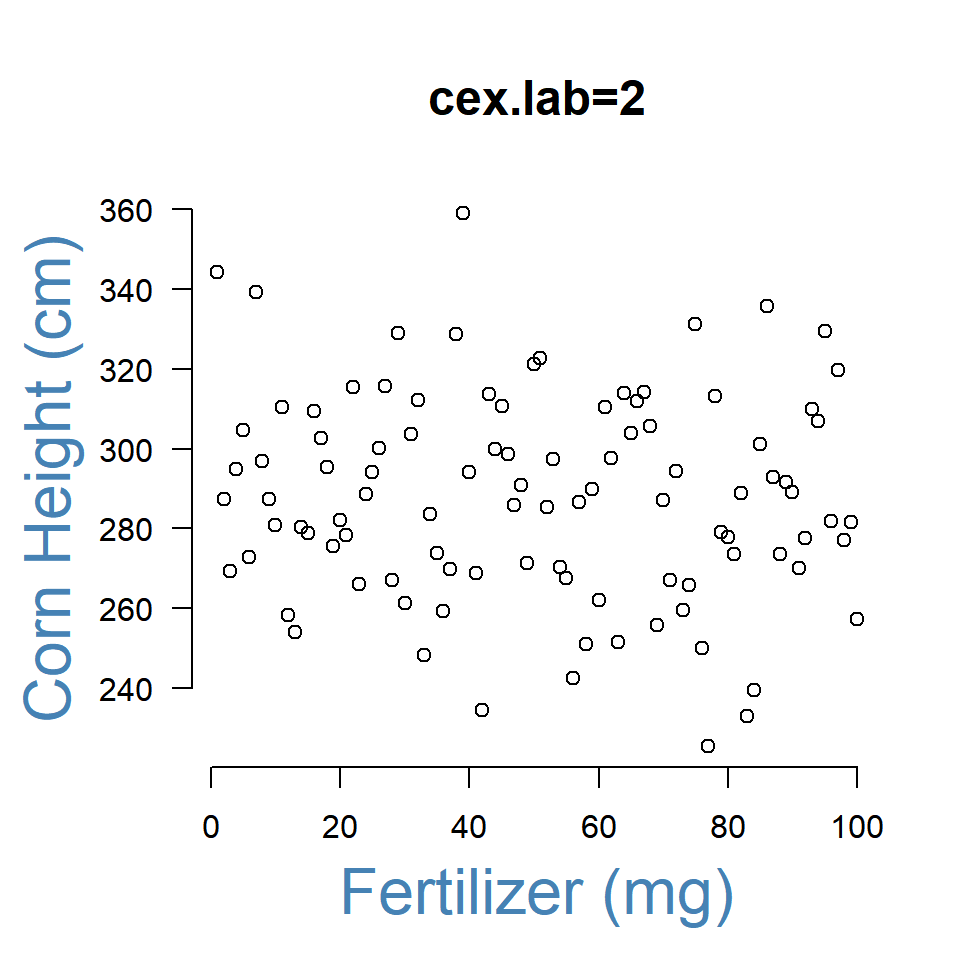
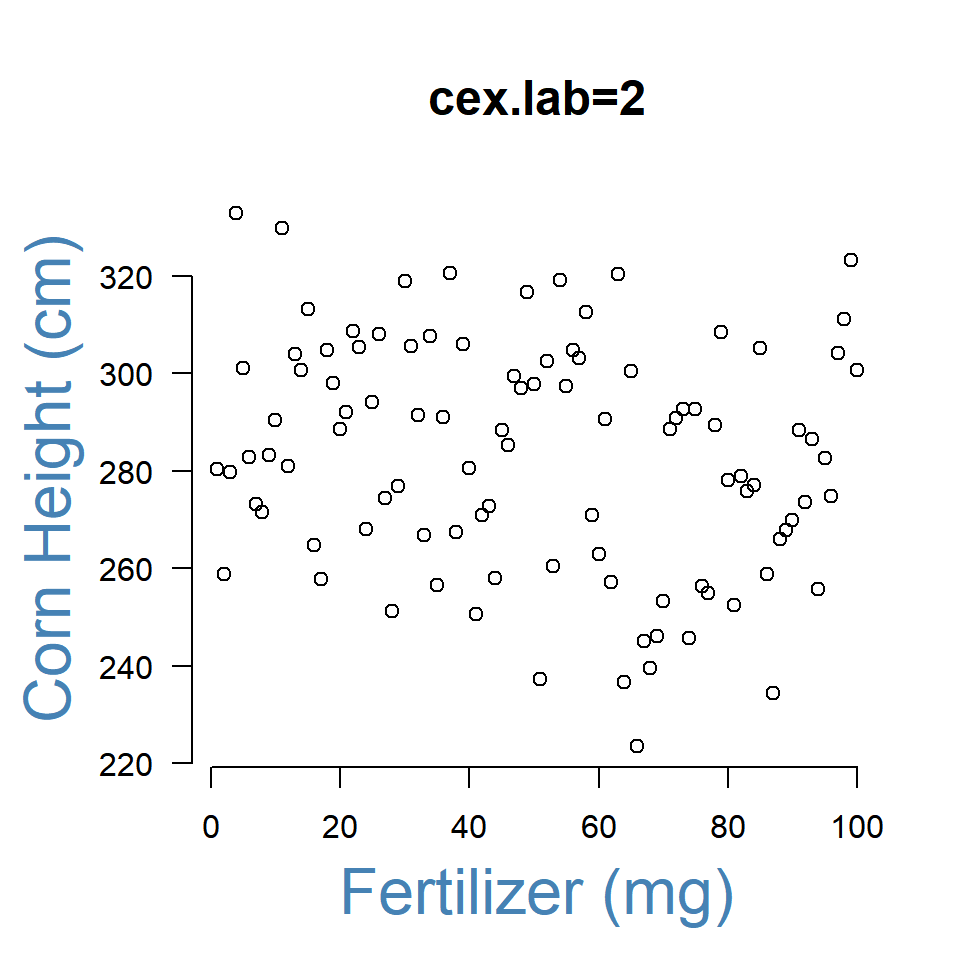
p-061

diff --git a/p-061-plot-basics.html b/p-061-plot-basics.html
@@ -291,64 +291,64 @@ $(document).ready(function () {
 </thead>
 <tbody>
 <tr class="odd">
-<td align="center">36</td>
-<td align="center">344</td>
-<td align="center">0.24</td>
-<td align="center">A</td>
+<td align="center">15</td>
+<td align="center">280</td>
+<td align="center">1.08</td>
+<td align="center">B</td>
 </tr>
 <tr class="even">
-<td align="center">73</td>
-<td align="center">287</td>
-<td align="center">0.12</td>
+<td align="center">87</td>
+<td align="center">259</td>
+<td align="center">0.62</td>
 <td align="center">B</td>
 </tr>
 <tr class="odd">
-<td align="center">95</td>
-<td align="center">269</td>
-<td align="center">0.76</td>
+<td align="center">65</td>
+<td align="center">280</td>
+<td align="center">0.45</td>
 <td align="center">B</td>
 </tr>
 <tr class="even">
-<td align="center">51</td>
-<td align="center">295</td>
-<td align="center">0.58</td>
+<td align="center">43</td>
+<td align="center">333</td>
+<td align="center">0.15</td>
 <td align="center">C</td>
 </tr>
 <tr class="odd">
-<td align="center">33</td>
-<td align="center">305</td>
-<td align="center">0.55</td>
+<td align="center">50</td>
+<td align="center">301</td>
+<td align="center">0.32</td>
 <td align="center">A</td>
 </tr>
 <tr class="even">
-<td align="center">79</td>
-<td align="center">273</td>
-<td align="center">0.69</td>
-<td align="center">A</td>
-</tr>
-<tr class="odd">
-<td align="center">39</td>
-<td align="center">339</td>
-<td align="center">0.05</td>
-<td align="center">C</td>
-</tr>
-<tr class="even">
-<td align="center">72</td>
-<td align="center">297</td>
-<td align="center">0.7</td>
-<td align="center">B</td>
-</tr>
-<tr class="odd">
-<td align="center">48</td>
-<td align="center">287</td>
-<td align="center">0.42</td>
-<td align="center">B</td>
-</tr>
-<tr class="even">
-<td align="center">59</td>
-<td align="center">281</td>
+<td align="center">46</td>
+<td align="center">283</td>
 <td align="center">0.53</td>
 <td align="center">C</td>
+</tr>
+<tr class="odd">
+<td align="center">10</td>
+<td align="center">273</td>
+<td align="center">0.44</td>
+<td align="center">A</td>
+</tr>
+<tr class="even">
+<td align="center">2</td>
+<td align="center">272</td>
+<td align="center">0.71</td>
+<td align="center">A</td>
+</tr>
+<tr class="odd">
+<td align="center">13</td>
+<td align="center">283</td>
+<td align="center">0.81</td>
+<td align="center">C</td>
+</tr>
+<tr class="even">
+<td align="center">19</td>
+<td align="center">290</td>
+<td align="center">0.34</td>
+<td align="center">A</td>
 </tr>
 </tbody>
 </table>

diff --git a/p-062-customized-graphics.html b/p-062-customized-graphics.html
@@ -271,16 +271,16 @@ Mark McGuire before and after alleged steroid use.
 <div id="core-graphic-functions" class="section level2">
 <h2><span class="header-section-number">1.2</span> Core Graphic Functions</h2>
 <pre class="r"><code>points(
-  x=x, y=y,                    # plots points at the x,y positions 
-  pch=19,                      # the type of point to plot
-  cex=2,                           # aspect ratio of point size
-  col=&quot;red&quot;,                     # color of points
-  bg=&quot;green&quot;                     # fill color for open symbols
+  x=x, y=y,              # plots points at the x,y positions 
+  pch=19,                # the type of point to plot
+  cex=2,                 # aspect ratio of point size
+  col=&quot;red&quot;,             # color of points
+  bg=&quot;green&quot;             # fill color for open symbols
  )
 
 
 text(
-  x=x, y=y,                    # draws a line by connecting points 
+  x=x, y=y,              # draws a line by connecting points 
   labels=some.text,          # vector of labels to plot on the graph
   pos=3,                           # position: 1=below, 2=left, 3=above, 4=right
   cex=2,                           # aspect ratio of text size
@@ -510,7 +510,7 @@ points( height.jitter[ these.iowa ],
 
 points( 63, 250, pch=19, col=&quot;firebrick&quot; )
 text( 63, 250, &quot;Players form Iowa&quot;, 
-      pos=4, col=&quot;darkgray&quot; )</code></pre>
+      pos=4, cex=1.5, col=&quot;darkgray&quot; )</code></pre>
 <p><img src="p-062-customized-graphics_files/figure-html/unnamed-chunk-17-1.png" width="960" /></p>
 <p>Let’s add another layer with only that data that falls within the 25th to 75th percentiles of BMI, what we might consider “averaged” sized players relative to their height.</p>
 <pre class="r"><code>plot.new()
